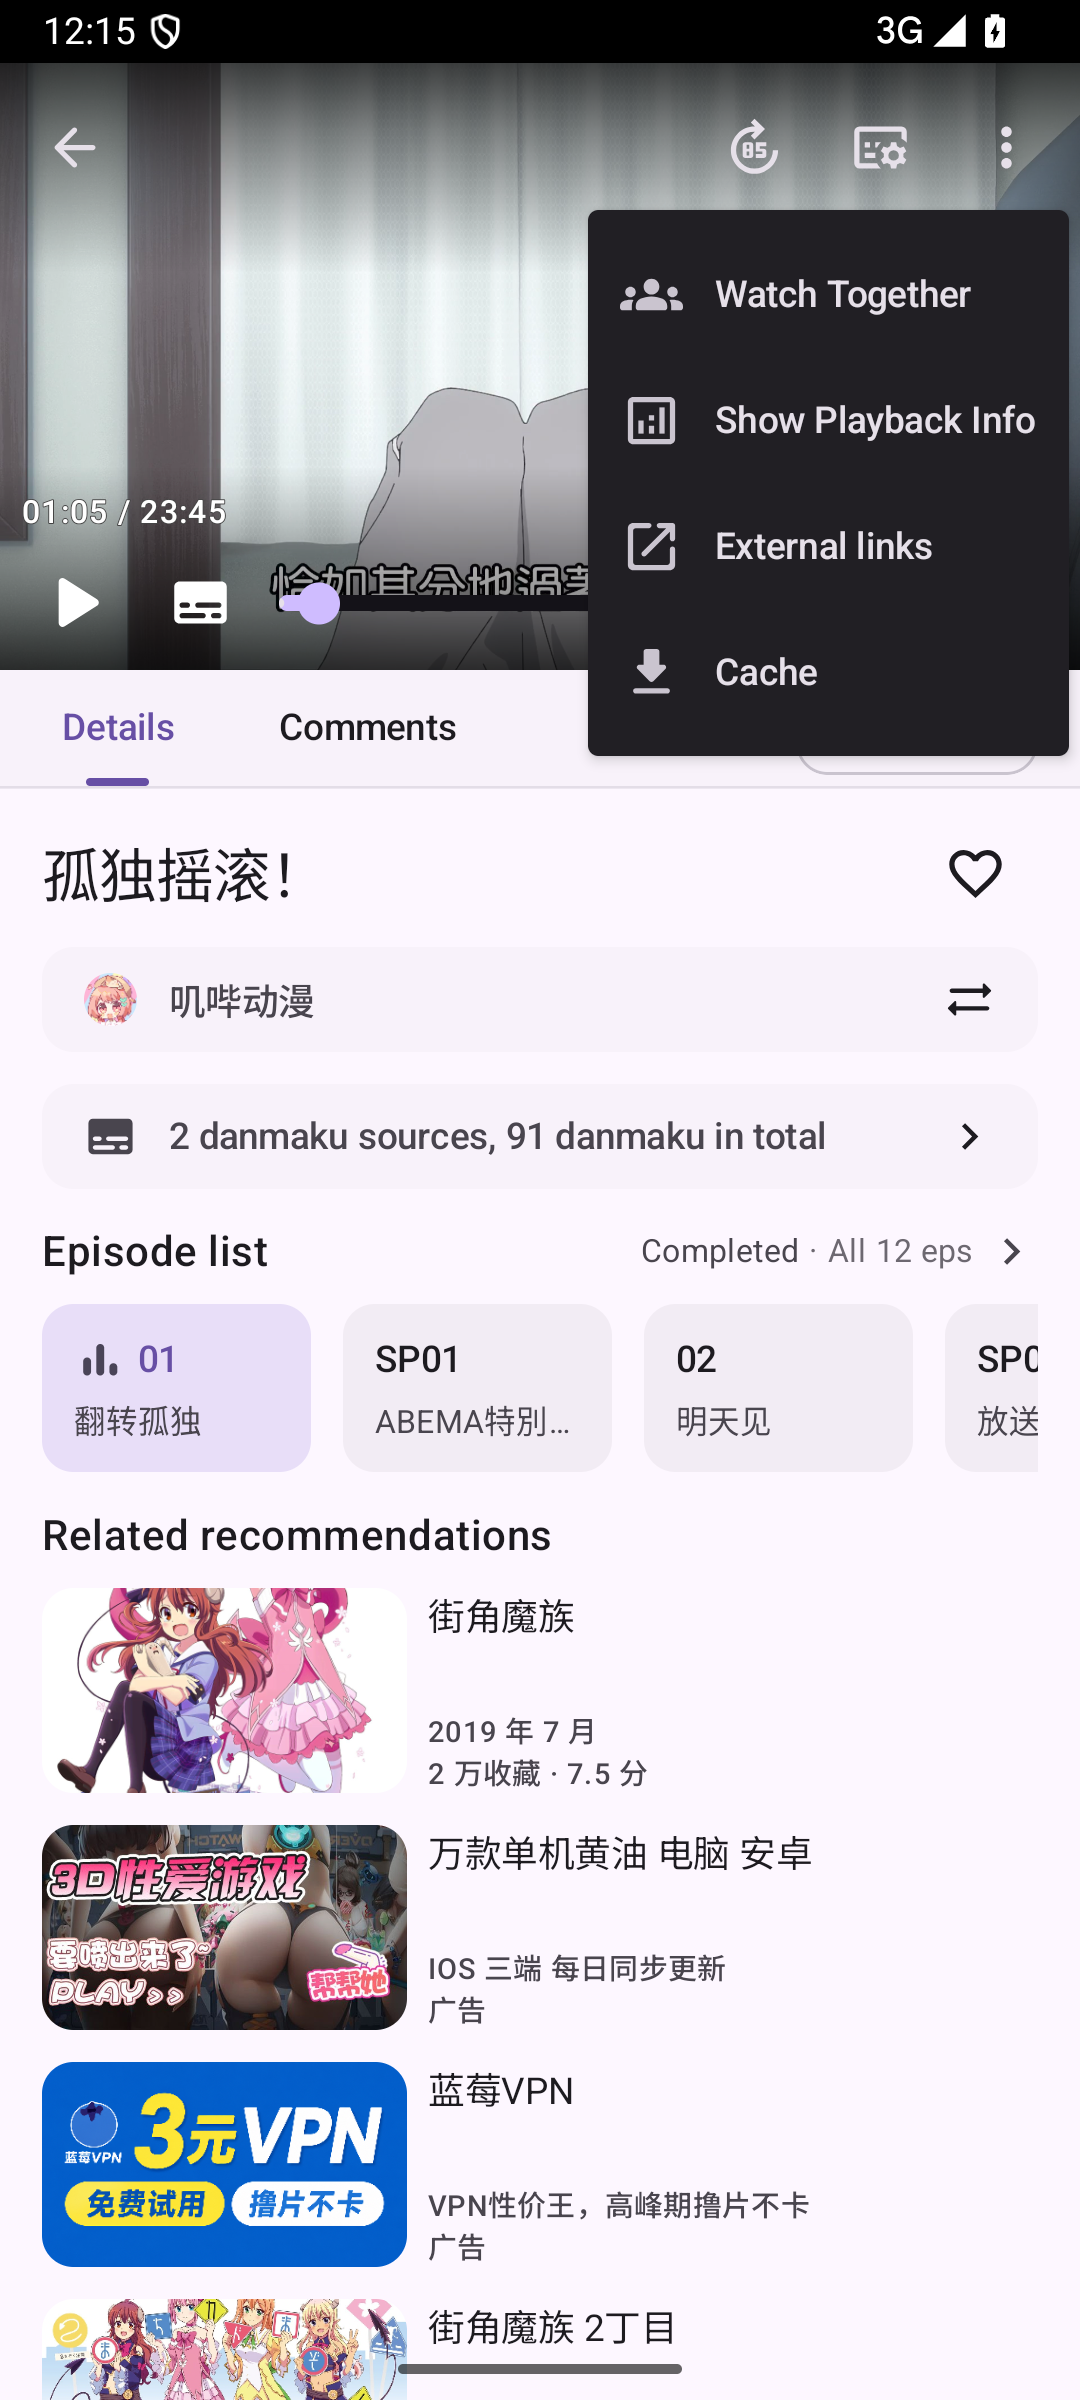
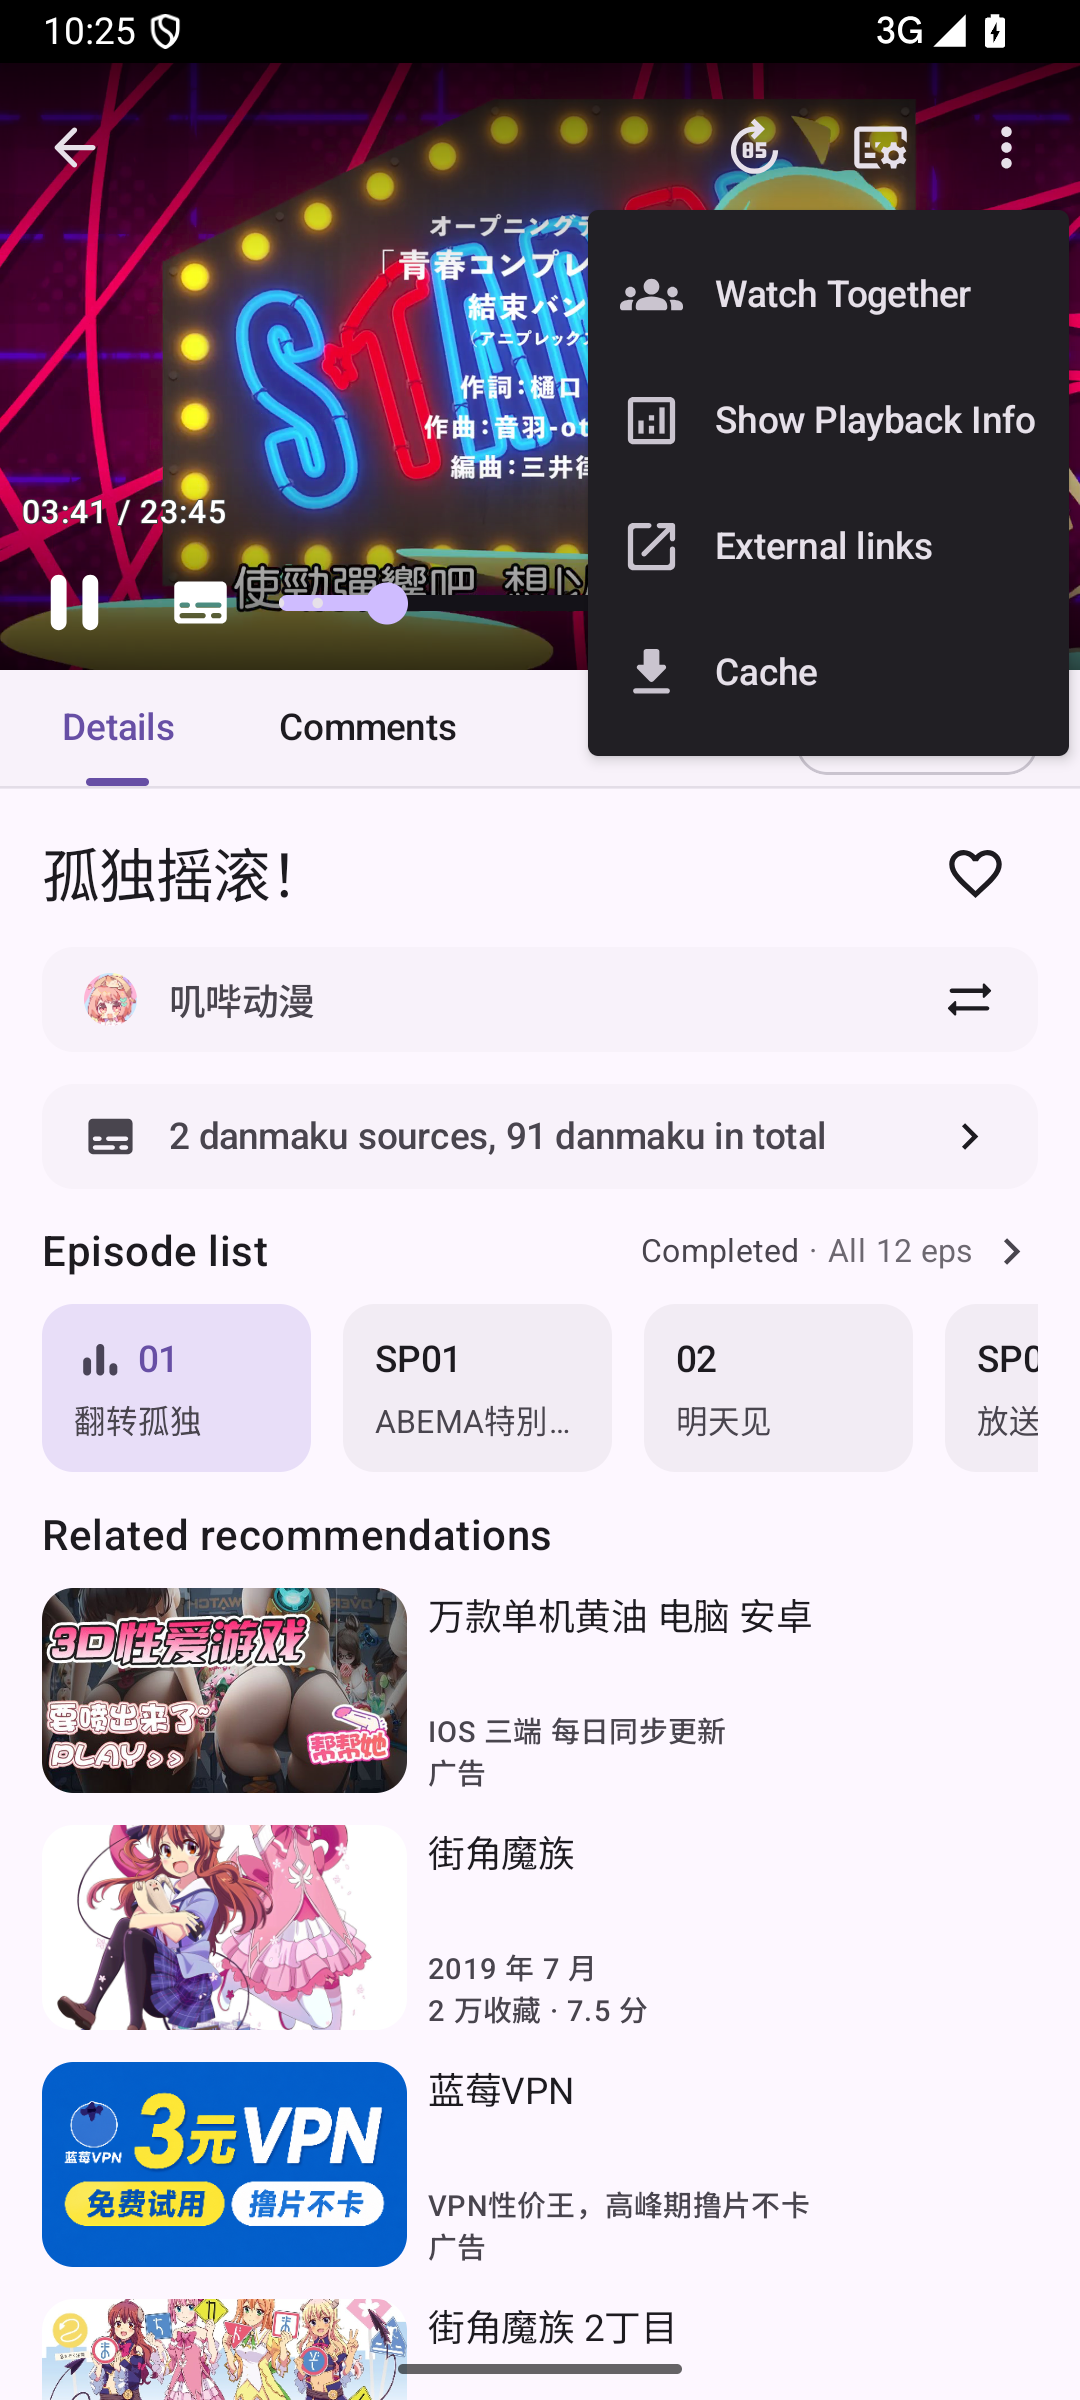
Address Watch Together player feedback

Changed region(s): [[0.0, 0.0, 1.0, 0.2812], [0.0306, 0.6562, 0.7639, 0.8438]]

diff --git a/app/shared/src/desktopTest/kotlin/ui/subject/episode/EpisodeVideoControllerTest.kt b/app/shared/src/desktopTest/kotlin/ui/subject/episode/EpisodeVideoControllerTest.kt
@@ -77,6 +77,8 @@ import me.him188.ani.app.ui.subject.episode.video.sidesheet.DanmakuRegexFilterSe
 import me.him188.ani.app.ui.subject.episode.video.sidesheet.EpisodeSelectorSheet
 import me.him188.ani.app.ui.subject.episode.video.sidesheet.MediaSelectorSheet
 import me.him188.ani.app.ui.subject.episode.video.sidesheet.rememberTestEpisodeSelectorState
+import me.him188.ani.app.ui.watchtogether.LocalWatchTogetherPlayerController
+import me.him188.ani.app.ui.watchtogether.WatchTogetherPlayerController
 import me.him188.ani.app.videoplayer.ui.ControllerVisibility
 import me.him188.ani.app.videoplayer.ui.NoOpPlaybackSpeedController
 import me.him188.ani.app.videoplayer.ui.NoOpVideoAspectRatio
@@ -214,19 +216,25 @@ class EpisodeVideoControllerTest {
         playbackSpeed: PlaybackSpeed = NoOpPlaybackSpeedController,
         onCommitPlaybackSpeed: (Float) -> Unit = {},
         opEdSkipDuration: Duration = 85.seconds,
-        onClickWatchTogether: () -> Unit = {},
+        watchTogetherPlayerController: WatchTogetherPlayerController? = null,
         onPlayerStateCreated: (TestMediampPlayer) -> Unit = {},
         onPlatformWindow: (PlatformWindow) -> Unit = {},
         platformWindowOverride: PlatformWindow? = null,
         showDanmakuEditor: () -> Boolean = { true },
         onEditorEscape: (() -> Unit)? = null,
         expanded: Boolean = true,
+        isFullscreen: Boolean = expanded,
         framePreview: MediaProgressFramePreviewState? = null,
         cacheChunkState: ChunkState = ChunkState.NONE,
     ) {
         ProvideCompositionLocalsForPreview(darkMode = DarkMode.DARK) {
             val platformWindow = platformWindowOverride ?: LocalPlatformWindow.current
-            CompositionLocalProvider(LocalPlatformWindow provides platformWindow) {
+            val actualWatchTogetherPlayerController = watchTogetherPlayerController
+                ?: remember { WatchTogetherPlayerController() }
+            CompositionLocalProvider(
+                LocalPlatformWindow provides platformWindow,
+                LocalWatchTogetherPlayerController provides actualWatchTogetherPlayerController,
+            ) {
                 onPlatformWindow(platformWindow)
                 val scope = rememberCoroutineScope()
                 val playerState = remember {
@@ -353,7 +361,7 @@ class EpisodeVideoControllerTest {
                 gestureFamily = gestureFamily,
                 shareData = MediaShareData(null, null),
                 onClickCache = {},
-                onClickWatchTogether = onClickWatchTogether,
+                isFullscreen = isFullscreen,
                 modifier = Modifier.testTag("PLAYER"),
                 )
             }
@@ -425,11 +433,12 @@ class EpisodeVideoControllerTest {
     fun `player menu shows watch together first and dispatches click`() = runAniComposeUiTest {
         var watchTogetherClicks = 0
         val visibleControllerState = PlayerControllerState(NORMAL_VISIBLE)
+        val watchTogetherPlayerController = WatchTogetherPlayerController { watchTogetherClicks++ }
         setContent {
             Player(
                 GestureFamily.MOUSE,
                 playerControllerState = visibleControllerState,
-                onClickWatchTogether = { watchTogetherClicks++ },
+                watchTogetherPlayerController = watchTogetherPlayerController,
             )
         }
 
@@ -450,6 +459,51 @@ class EpisodeVideoControllerTest {
             assertEquals(1, watchTogetherClicks)
         }
         watchTogetherItem.doesNotExist()
+    }
+
+    @Test
+    fun `watch together popup follows controller only in fullscreen`() = runAniComposeUiTest {
+        val visibleControllerState = PlayerControllerState(NORMAL_VISIBLE)
+        val watchTogetherPlayerController = WatchTogetherPlayerController()
+        var isFullscreen by mutableStateOf(true)
+        mainClock.autoAdvance = false
+        setContent {
+            Player(
+                GestureFamily.MOUSE,
+                playerControllerState = visibleControllerState,
+                watchTogetherPlayerController = watchTogetherPlayerController,
+                isFullscreen = isFullscreen,
+            )
+        }
+
+        runOnIdle {
+            assertTrue(watchTogetherPlayerController.isDraggablePopupVisible)
+            visibleControllerState.toggleFullVisible(false)
+        }
+        waitUntil(timeoutMillis = WAIT_TIMEOUT) {
+            !watchTogetherPlayerController.isDraggablePopupVisible
+        }
+
+        runOnIdle {
+            visibleControllerState.toggleFullVisible(true)
+        }
+        waitUntil(timeoutMillis = WAIT_TIMEOUT) {
+            watchTogetherPlayerController.isDraggablePopupVisible
+        }
+
+        runOnIdle {
+            visibleControllerState.toggleFullVisible(false)
+        }
+        waitUntil(timeoutMillis = WAIT_TIMEOUT) {
+            !watchTogetherPlayerController.isDraggablePopupVisible
+        }
+
+        runOnIdle {
+            isFullscreen = false
+        }
+        waitUntil(timeoutMillis = WAIT_TIMEOUT) {
+            watchTogetherPlayerController.isDraggablePopupVisible
+        }
     }
 
     /**

diff --git a/app/shared/src/commonMain/kotlin/ui/subject/episode/EpisodeVideo.kt b/app/shared/src/commonMain/kotlin/ui/subject/episode/EpisodeVideo.kt
@@ -39,6 +39,7 @@ import androidx.compose.material3.TooltipDefaults
 import androidx.compose.material3.rememberTooltipState
 import androidx.compose.runtime.Composable
 import androidx.compose.runtime.DisposableEffect
+import androidx.compose.runtime.LaunchedEffect
 import androidx.compose.runtime.Stable
 import androidx.compose.runtime.collectAsState
 import androidx.compose.runtime.derivedStateOf
@@ -48,6 +49,7 @@ import androidx.compose.runtime.remember
 import androidx.compose.runtime.rememberCoroutineScope
 import androidx.compose.runtime.saveable.rememberSaveable
 import androidx.compose.runtime.setValue
+import androidx.compose.runtime.snapshotFlow
 import androidx.compose.ui.Modifier
 import androidx.compose.ui.platform.LocalDensity
 import androidx.compose.ui.platform.testTag
@@ -115,6 +117,7 @@ import me.him188.ani.app.ui.subject.episode.video.sidesheet.EpisodeSelectorSheet
 import me.him188.ani.app.ui.subject.episode.video.sidesheet.MediaSelectorSheet
 import me.him188.ani.app.ui.subject.episode.video.sidesheet.rememberTestEpisodeSelectorState
 import me.him188.ani.app.ui.subject.episode.video.topbar.EpisodePlayerTitle
+import me.him188.ani.app.ui.watchtogether.LocalWatchTogetherPlayerController
 import me.him188.ani.app.videoplayer.ui.ControllerVisibility
 import me.him188.ani.app.videoplayer.ui.NoOpVideoAspectRatio
 import me.him188.ani.app.videoplayer.ui.PlaybackSpeedControllerState
@@ -220,7 +223,6 @@ internal fun EpisodeVideoImpl(
     sideSheets: @Composable (controller: VideoSideSheetsController<EpisodeVideoSideSheetPage>) -> Unit,
     shareData: MediaShareData,
     onClickCache: () -> Unit,
-    onClickWatchTogether: () -> Unit = {},
     modifier: Modifier = Modifier,
     maintainAspectRatio: Boolean = !expanded,
     isFullscreen: Boolean = expanded,
@@ -235,6 +237,22 @@ internal fun EpisodeVideoImpl(
     val sheetsController = rememberVideoSideSheetsController<EpisodeVideoSideSheetPage>()
     val anySideSheetVisible by sheetsController.hasPageAsState()
     val previewModeText = stringResource(Lang.subject_episode_preview_mode)
+    val watchTogetherPlayerController = LocalWatchTogetherPlayerController.current
+
+    LaunchedEffect(isFullscreen, playerControllerState, watchTogetherPlayerController) {
+        if (isFullscreen) {
+            snapshotFlow { playerControllerState.visibility.topBar }.collect {
+                watchTogetherPlayerController.setDraggablePopupVisibility(it)
+            }
+        } else {
+            watchTogetherPlayerController.setDraggablePopupVisibility(true)
+        }
+    }
+    DisposableEffect(watchTogetherPlayerController) {
+        onDispose {
+            watchTogetherPlayerController.setDraggablePopupVisibility(true)
+        }
+    }
 
     // auto hide cursor
     val videoInteractionSource = remember { MutableInteractionSource() }
@@ -287,7 +305,7 @@ internal fun EpisodeVideoImpl(
                                 sheetsController = sheetsController,
                                 shareData = shareData,
                                 onClickCache = onClickCache,
-                                onClickWatchTogether = onClickWatchTogether,
+                                onClickWatchTogether = watchTogetherPlayerController::toggle,
                                 playerControllerState = playerControllerState,
                                 sidebarVisible = sidebarVisible,
                                 onToggleSidebar = onToggleSidebar,

diff --git a/app/shared/src/commonMain/kotlin/ui/main/AniAppContent.kt b/app/shared/src/commonMain/kotlin/ui/main/AniAppContent.kt
@@ -107,8 +107,9 @@ import me.him188.ani.app.ui.subject.details.SubjectDetailsViewModel
 import me.him188.ani.app.ui.subject.episode.EpisodeScreen
 import me.him188.ani.app.ui.subject.episode.EpisodeViewModel
 import me.him188.ani.app.ui.user.SelfInfoStateProducer
-import me.him188.ani.app.ui.watchtogether.LocalWatchTogetherPlayerEntryAction
+import me.him188.ani.app.ui.watchtogether.LocalWatchTogetherPlayerController
 import me.him188.ani.app.ui.watchtogether.WatchTogetherOverlayHost
+import me.him188.ani.app.ui.watchtogether.WatchTogetherPlayerController
 import me.him188.ani.app.ui.watchtogether.WatchTogetherViewModel
 import me.him188.ani.datasources.api.source.FactoryId
 import kotlin.reflect.typeOf
@@ -121,8 +122,8 @@ fun AniAppContent(aniNavigator: AniNavigator) {
     val aniAppViewModel = viewModel<AniAppViewModel>()
     val appState = aniAppViewModel.appState.collectAsStateWithLifecycle(null).value ?: return
     val watchTogetherViewModel = viewModel { WatchTogetherViewModel() }
-    val onWatchTogetherPlayerEntryClick = remember(watchTogetherViewModel) {
-        { watchTogetherViewModel.onPlayerEntryClick() }
+    val watchTogetherPlayerController = remember(watchTogetherViewModel) {
+        WatchTogetherPlayerController(watchTogetherViewModel::onPlayerEntryClick)
     }
 
     val navigator = rememberNavController()
@@ -132,7 +133,7 @@ fun AniAppContent(aniNavigator: AniNavigator) {
         CompositionLocalProvider(
             LocalNavigator provides aniNavigator,
             LocalBrowserNavigator providesDefault aniAppViewModel.browserNavigator,
-            LocalWatchTogetherPlayerEntryAction provides onWatchTogetherPlayerEntryClick,
+            LocalWatchTogetherPlayerController provides watchTogetherPlayerController,
         ) {
             ProvideAniMotionCompositionLocals {
                 AniAppContentImpl(

diff --git a/app/shared/ui-watchtogether/src/commonMain/kotlin/ui/watchtogether/WatchTogetherOverlayHost.kt b/app/shared/ui-watchtogether/src/commonMain/kotlin/ui/watchtogether/WatchTogetherOverlayHost.kt
@@ -48,7 +48,6 @@ import androidx.compose.runtime.mutableStateOf
 import androidx.compose.runtime.remember
 import androidx.compose.runtime.saveable.rememberSaveable
 import androidx.compose.runtime.setValue
-import androidx.compose.runtime.staticCompositionLocalOf
 import androidx.compose.ui.Alignment
 import androidx.compose.ui.Modifier
 import androidx.compose.ui.draw.alpha
@@ -89,14 +88,13 @@ import kotlin.math.abs
 import kotlin.math.roundToInt
 import kotlin.math.roundToLong
 
-val LocalWatchTogetherPlayerEntryAction = staticCompositionLocalOf<() -> Unit> { {} }
-
 @Composable
 fun BoxScope.WatchTogetherOverlayHost(
     viewModel: WatchTogetherViewModel,
     aniNavigator: AniNavigator,
 ) {
     val state by viewModel.uiStateFlow.collectAsStateWithLifecycle()
+    val playerController = LocalWatchTogetherPlayerController.current
     var dialogVisible by rememberSaveable { mutableStateOf(false) }
     val toastHostState = remember { SnackbarHostState() }
 
@@ -233,11 +231,13 @@ fun BoxScope.WatchTogetherOverlayHost(
 
     if (!state.featureEnabled) return
 
-    DraggableWatchTogetherBubble(
-        state = state,
-        onClick = { dialogVisible = true },
-        modifier = Modifier.fillMaxSize(),
-    )
+    if (playerController.isDraggablePopupVisible) {
+        DraggableWatchTogetherBubble(
+            state = state,
+            onClick = { dialogVisible = true },
+            modifier = Modifier.fillMaxSize(),
+        )
+    }
 
     if (dialogVisible) {
         WatchTogetherDialog(

diff --git a/app/shared/src/commonMain/kotlin/ui/subject/episode/EpisodePage.kt b/app/shared/src/commonMain/kotlin/ui/subject/episode/EpisodePage.kt
@@ -148,7 +148,6 @@ import me.him188.ani.app.ui.subject.episode.video.sidesheet.DanmakuRegexFilterSe
 import me.him188.ani.app.ui.subject.episode.video.sidesheet.EpisodeSelectorSheet
 import me.him188.ani.app.ui.subject.episode.video.sidesheet.MediaSelectorSheet
 import me.him188.ani.app.ui.subject.episode.video.topbar.EpisodePlayerTitle
-import me.him188.ani.app.ui.watchtogether.LocalWatchTogetherPlayerEntryAction
 import me.him188.ani.app.videoplayer.ui.PlaybackSpeedControllerState
 import me.him188.ani.app.videoplayer.ui.PlayerControllerState
 import me.him188.ani.app.videoplayer.ui.PlayerFocusState
@@ -898,7 +897,6 @@ private fun EpisodeVideo(
 ) {
     val context by rememberUpdatedState(LocalContext.current)
     val navigator = LocalNavigator.current
-    val onClickWatchTogether = LocalWatchTogetherPlayerEntryAction.current
     val isAndroid = LocalPlatform.current.isAndroid()
 
     // Don't rememberSavable. 刻意让每次切换都是隐藏的
@@ -1125,7 +1123,6 @@ private fun EpisodeVideo(
         },
         shareData = page.shareData,
         onClickCache = { navigator.navigateSubjectCaches(vm.subjectId) },
-        onClickWatchTogether = onClickWatchTogether,
         modifier = modifier
             .fillMaxWidth().background(Color.Black)
             .then(if (expanded) Modifier.fillMaxSize() else Modifier.statusBarsPadding()),

diff --git a/app/shared/ui-watchtogether/src/commonMain/kotlin/ui/watchtogether/WatchTogetherPlayerController.kt b/app/shared/ui-watchtogether/src/commonMain/kotlin/ui/watchtogether/WatchTogetherPlayerController.kt
@@ -1,0 +1,34 @@
+/*
+ * Copyright (C) 2024-2026 OpenAni and contributors.
+ *
+ * 此源代码的使用受 GNU AFFERO GENERAL PUBLIC LICENSE version 3 许可证的约束, 可以在以下链接找到该许可证.
+ * Use of this source code is governed by the GNU AGPLv3 license, which can be found at the following link.
+ *
+ * https://github.com/open-ani/ani/blob/main/LICENSE
+ */
+
+package me.him188.ani.app.ui.watchtogether
+
+import androidx.compose.runtime.Stable
+import androidx.compose.runtime.getValue
+import androidx.compose.runtime.mutableStateOf
+import androidx.compose.runtime.setValue
+import androidx.compose.runtime.staticCompositionLocalOf
+
+@Stable
+class WatchTogetherPlayerController(
+    private val onToggle: () -> Unit = {},
+) {
+    var isDraggablePopupVisible by mutableStateOf(true)
+        private set
+
+    fun toggle() {
+        onToggle()
+    }
+
+    fun setDraggablePopupVisibility(visible: Boolean) {
+        isDraggablePopupVisible = visible
+    }
+}
+
+val LocalWatchTogetherPlayerController = staticCompositionLocalOf { WatchTogetherPlayerController() }

diff --git a/app/shared/ui-watchtogether/src/commonMain/kotlin/ui/watchtogether/WatchTogetherViewModel.kt b/app/shared/ui-watchtogether/src/commonMain/kotlin/ui/watchtogether/WatchTogetherViewModel.kt
@@ -119,11 +119,10 @@ class WatchTogetherViewModel : AbstractViewModel(), KoinComponent {
     fun onPlayerEntryClick() {
         launchInBackground {
             val settings = settingsRepository.watchTogetherSettings.flow.first()
-            if (settings.enabled) {
-                dialogOpenRequestChannel.send(Unit)
-            } else {
+            if (!settings.enabled) {
                 settingsRepository.watchTogetherSettings.update { copy(enabled = true) }
             }
+            dialogOpenRequestChannel.send(Unit)
         }
     }
 
